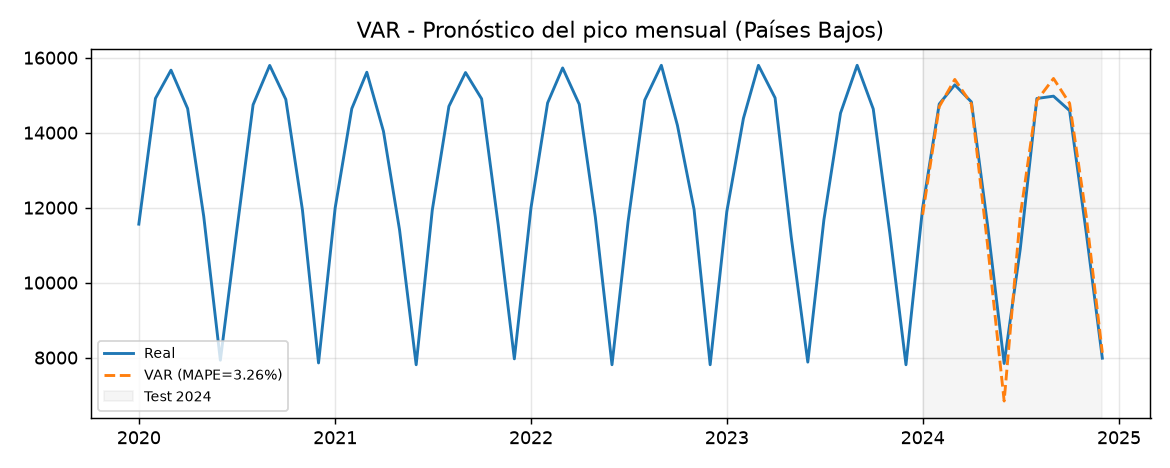
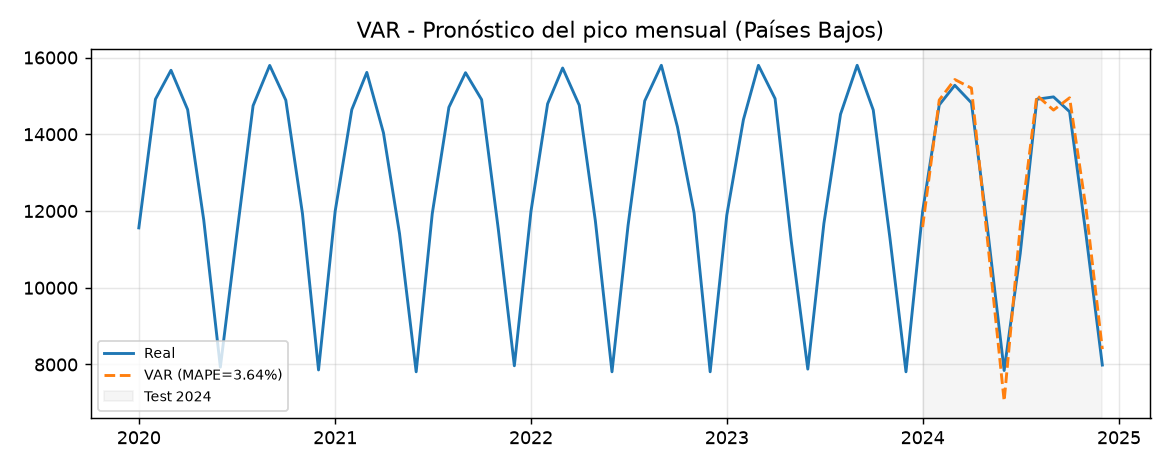
add urban_population variable to Var

diff --git a/sections/04-aplicacion.tex b/sections/04-aplicacion.tex
@@ -10,9 +10,9 @@
 Se aplicó la metodología del artículo a un conjunto de datos sintético de consumo y clima (datos diarios de 20 países, 2020 a 2024). Siguiendo los lineamientos del artículo, se trabajó en frecuencia mensual y se eligió el país más pequeño del conjunto: Países Bajos. El proceso de limpieza deja un conjunto depurado mediante los siguientes pasos:
 
 \begin{itemize}
-  \item Filtrado por país, con la fecha como índice temporal, verificación de continuidad diaria y de valores faltantes (no había).
-  \item Agregación mensual: la variable objetivo es el pico de consumo mensual, es decir, el máximo diario de consumo en cada mes (análogo al pico de demanda del artículo); como exógenas se usan la temperatura y la humedad medias del mes.
-  \item Winsorización mensual (percentiles 5 y 95) sobre las series agregadas, de modo que solo se recorten los meses extremos.
+	\item Filtrado por país, con la fecha como índice temporal, verificación de continuidad diaria y de valores faltantes (no había).
+	\item Agregación mensual: la variable objetivo es el pico de consumo mensual, es decir, el máximo diario de consumo en cada mes (análogo al pico de demanda del artículo); como exógenas se usan la temperatura, la humedad y la población urbana medias del mes.
+	\item Winsorización mensual (percentiles 5 y 95) sobre las series agregadas, de modo que solo se recorten los meses extremos.
 \end{itemize}
 
 \noindent El resultado son 60 observaciones mensuales, de enero de 2020 a diciembre de 2024.
@@ -22,44 +22,46 @@ Se aplicó la metodología del artículo a un conjunto de datos sintético de co
 Se replicaron los pasos del artículo: test ADF de estacionariedad (diferenciando si $p>0{,}05$), selección de órdenes por AIC, validación walk-forward sobre 2024 (horizonte $h=1$, reestimando en cada paso) y métricas MAE, RMSE y MAPE.
 
 \begin{itemize}
-  \item ARIMA: los órdenes $(p,d,q)$ se seleccionaron automáticamente minimizando el AIC, con estacionalidad anual. El modelo elegido fue ARIMA$(0,1,1)(1,1,0)_{12}$, con AIC $510{,}7$. El test de Ljung-Box sobre los residuos arrojó $p=0{,}0007$, por lo que aún queda autocorrelación residual por capturar.
-  \item VAR: modelo multivariado sobre el pico de consumo, la temperatura y la humedad (diferenciadas para garantizar estacionariedad conjunta). El rezago se eligió por AIC y resultó ser 6 (AIC $12{,}6$). El Ljung-Box sobre los residuos del pico dio $p=0{,}62$, es decir, sin autocorrelación residual.
+	\item ARIMA: los órdenes $(p,d,q)$ se seleccionaron automáticamente minimizando el AIC, con estacionalidad anual. El modelo elegido fue ARIMA$(0,1,1)(1,1,0)_{12}$, con AIC $510{,}7$. El test de Ljung-Box sobre los residuos arrojó $p=0{,}0007$, por lo que aún queda autocorrelación residual por capturar.
+	\item VAR: modelo multivariado sobre el pico de consumo, la temperatura, la humedad y la población urbana (diferenciadas para garantizar estacionariedad conjunta). El rezago se eligió por AIC y resultó ser 6 (AIC $13{,}2$). El Ljung-Box sobre los residuos del pico dio $p=0{,}47$, es decir, sin autocorrelación residual.
 \end{itemize}
 
 \subsection*{Resultados}
 
 \begin{table}[H]
-\centering
-\caption{Desempeño comparativo de ARIMA y VAR sobre el pico mensual (Países Bajos, validación walk-forward 2024).}
-\label{tab:app}
-\begin{tabular}{lccccc}
-\toprule
-Modelo & Órdenes / rezago & AIC & MAE & RMSE & MAPE (\%) \\
-\midrule
-ARIMA & $(0,1,1)(1,1,0)_{12}$ & 510{,}7 & 324{,}71 & 373{,}99 & 2{,}64 \\
-VAR   & rezago 6 & 12{,}6 & 345{,}09 & 463{,}83 & 3{,}26 \\
-\bottomrule
-\end{tabular}
+	\centering
+	\caption{Desempeño comparativo de ARIMA y VAR sobre la demanda
+		máxima mensual (Países Bajos, validación walk-forward 2024).}
+	\label{tab:app}
+	\begin{tabular}{lccccc}
+		\toprule
+		Modelo & Órdenes / rezago      & AIC     & MAE      & RMSE     & MAPE (\%) \\
+		\midrule
+		ARIMA  & $(0,1,1)(1,1,0)_{12}$ & 510{,}7 & 324{,}71 & 373{,}99 & 2{,}64    \\
+		VAR    & rezago 6              & 13{,}2  & 397{,}90 & 453{,}56 & 3{,}64    \\
+		\bottomrule
+	\end{tabular}
 \end{table}
 
 \begin{figure}[H]
-\centering
-\includegraphics[width=0.82\linewidth]{arima_forecast.png}
-\caption{Pronóstico ARIMA del pico mensual frente al real (Países Bajos, 2024) con banda de IC 95\,\%.}
-\label{fig:arima-forecast}
+	\centering
+	\includegraphics[width=0.82\linewidth]{arima_forecast.png}
+	\caption{Pronóstico ARIMA del pico mensual frente al real (Países Bajos, 2024) con banda de IC 95\,\%.}
+	\label{fig:arima-forecast}
 \end{figure}
 
 \begin{figure}[H]
-\centering
-\includegraphics[width=0.82\linewidth]{var_forecast.png}
-\caption{Pronóstico VAR del pico mensual frente al real (Países Bajos, 2024).}
-\label{fig:var-forecast}
+	\centering
+	\includegraphics[width=0.82\linewidth]{var_forecast.png}
+	\caption{Pronóstico VAR del pico mensual frente al real (Países Bajos, 2024).}
+	\label{fig:var-forecast}
 \end{figure}
 
 \subsection*{Análisis de los resultados}
 
-El ARIMA superó al VAR en las tres métricas (MAPE $2{,}64\,\%$ frente a $3{,}26\,\%$), lo que coincide con lo reportado en el artículo, donde ARIMA también fue el modelo con menor error. En series univariadas con estacionalidad marcada, un ARIMA bien calibrado puede superar a un VAR multivariado cuando las exógenas no aportan información adicional; el propio artículo ya lo señalaba al notar que el VAR rinde mejor solo con predictores externos fuertemente acoplados.
+El ARIMA superó al VAR en MAE y MAPE ($2{,}64\,\%$ frente a $3{,}64\,\%$); solo en RMSE el VAR fue levemente menor ($453{,}56$ frente a $373{,}99$ ARIMA), aunque ese resultado proviene de un par de errores grandes del ARIMA en meses de transición. El resultado coincide con lo reportado en el artículo, donde ARIMA también fue el modelo con menor error. En series univariadas con estacionalidad marcada, un ARIMA bien calibrado puede superar a un VAR multivariado cuando las exógenas no aportan información adicional; el propio artículo ya lo señalaba al notar que el VAR rinde mejor solo con predictores externos fuertemente acoplados.
 
-El diagnóstico de residuos muestra una diferencia: el ARIMA deja autocorrelación residual (Ljung-Box $p<0{,}05$), lo que indica que su estructura estacional no captura toda la dinámica y podría mejorarse con términos SARIMA adicionales o incluyendo exógenas (SARIMAX). El VAR, en cambio, presenta residuos sin autocorrelación ($p=0{,}62$), con un ajuste más adecuado de la estructura, aunque con mayor error de pronóstico.
+Cabe destacar que la incorporación de la población urbana como cuarta serie del VAR, lejos de mejorar el pronóstico, lo empeoró ligeramente (el MAPE pasó de $3{,}26\,\%$ con tres series a $3{,}64\,\%$ con cuatro). Esto sugiere que, en estos datos sintéticos, la variable socioeconómica no aporta información relevante para el pico de demanda, o que la muestra mensual (60 observaciones) es demasiado corta para que el VAR aproveche sus interdependencias sin sobreajustar.
 
-Limitaciones de esta aplicación: los datos son sintéticos, con magnitudes de consumo poco realistas entre países; la muestra es corta (60 meses, 12 de prueba); y no se incluyeron los regresores Lasso, Ridge y XGBoost ni el modelo híbrido, lo cual queda como trabajo futuro para reproducir la comparación completa del artículo.
+El diagnóstico de residuos muestra una diferencia: el ARIMA deja autocorrelación residual (Ljung-Box $p<0{,}05$), lo que indica que su estructura estacional no captura toda la dinámica y podría mejorarse con términos SARIMA adicionales o incluyendo exógenas (SARIMAX). El VAR, en cambio, presenta residuos sin autocorrelación ($p=0{,}47$), con un ajuste más adecuado de la estructura, aunque con mayor error de pronóstico.
+

diff --git a/sections/05-conclusiones.tex b/sections/05-conclusiones.tex
@@ -8,8 +8,8 @@
 
 \begin{enumerate}
   \item El artículo propone un marco híbrido que combina modelos estadísticos de series temporales (ARIMA, VAR) con regresores de aprendizaje automático (Lasso, Ridge, XGBoost) para el pronóstico del pico de demanda eléctrica en Tamil Nadu. Según sus resultados, el modelo híbrido es el de menor error (MAPE $3{,}82\,\%$), seguido por ARIMA ($6{,}28\,\%$) y VAR ($7{,}82\,\%$), aunque el resumen del artículo contradice estas tablas al atribuir el mejor desempeño a ARIMA (MAPE $1{,}26\,\%$).
-  \item La aplicación a datos mensuales de Países Bajos coincidió con lo reportado en el artículo: el ARIMA superó al VAR (MAPE $2{,}64\,\%$ frente a $3{,}26\,\%$). Esto muestra que, en series univariadas con estacionalidad marcada, un ARIMA bien calibrado es una base sólida y difícil de superar cuando las exógenas no aportan información adicional.
-  \item El diagnóstico de residuos mostró una diferencia: el ARIMA dejó autocorrelación residual (Ljung-Box $p<0{,}05$), lo que indica que su estructura estacional es insuficiente; el VAR, en cambio, presentó residuos sin autocorrelación ($p=0{,}62$), con un ajuste más adecuado de la dinámica, aunque con mayor error de pronóstico.
+  \item La aplicación a datos mensuales de Países Bajos coincidió con lo reportado en el artículo: el ARIMA superó al VAR (MAPE $2{,}64\,\%$ frente a $3{,}64\,\%$). Esto muestra que, en series univariadas con estacionalidad marcada, un ARIMA bien calibrado es una base sólida y difícil de superar cuando las exógenas, incluida la población urbana, no aportan información adicional.
+  \item El diagnóstico de residuos mostró una diferencia: el ARIMA dejó autocorrelación residual (Ljung-Box $p<0{,}05$), lo que indica que su estructura estacional es insuficiente; el VAR, en cambio, presentó residuos sin autocorrelación ($p=0{,}47$), con un ajuste más adecuado de la dinámica, aunque con mayor error de pronóstico.
   \item La ingeniería de variables (rezagos, medias móviles, términos de interacción entre clima y consumo) y la incorporación de predictores meteorológicos ayudan a reducir el error, como también sostiene el artículo.
 \end{enumerate}
 

diff --git a/scripts/var.py b/scripts/var.py
@@ -18,7 +18,7 @@ from common import (
     ASSETS, TEST_YEAR,
 )
 
-COLS = ["peak_load", "avg_temperature", "humidity"]
+COLS = ["peak_load", "avg_temperature", "humidity", "urban_population"]
 
 
 def adf_all(data: pd.DataFrame) -> None: